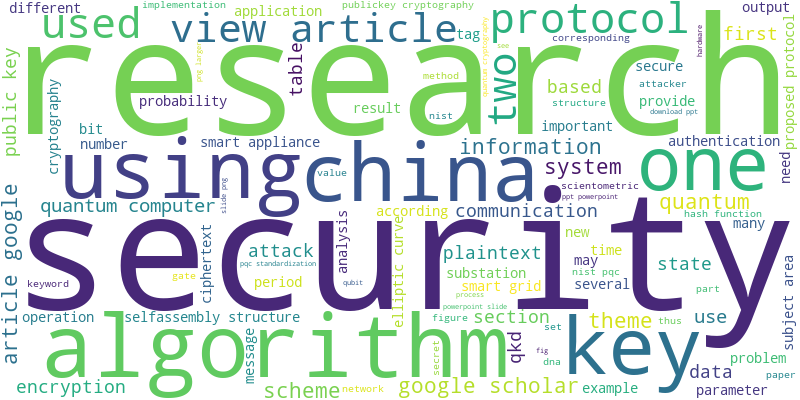
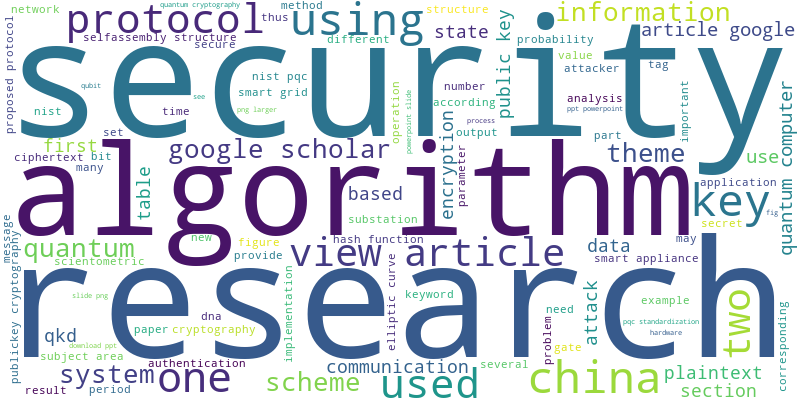
final3 maybe I'll fix articles with the analyste tomorrow

diff --git a/veille-technologique-app-nassim/veille_app/models.py b/veille-technologique-app-nassim/veille_app/models.py
@@ -55,11 +55,10 @@ class Content(models.Model):
     source = models.ForeignKey(Source, related_name="contents", on_delete=models.CASCADE)
     date_fetched = models.DateTimeField(auto_now_add=True)
     created_by = models.ForeignKey(User, related_name="contents", on_delete=models.SET_NULL, null=True, blank=True)
-# id task 
+    task = models.ForeignKey(Task, related_name="contents", on_delete=models.CASCADE, null=True, blank=True)  # Ajout de la clé étrangère vers Task
+
     def __str__(self):
         return self.title
-    
-
 
 
 
